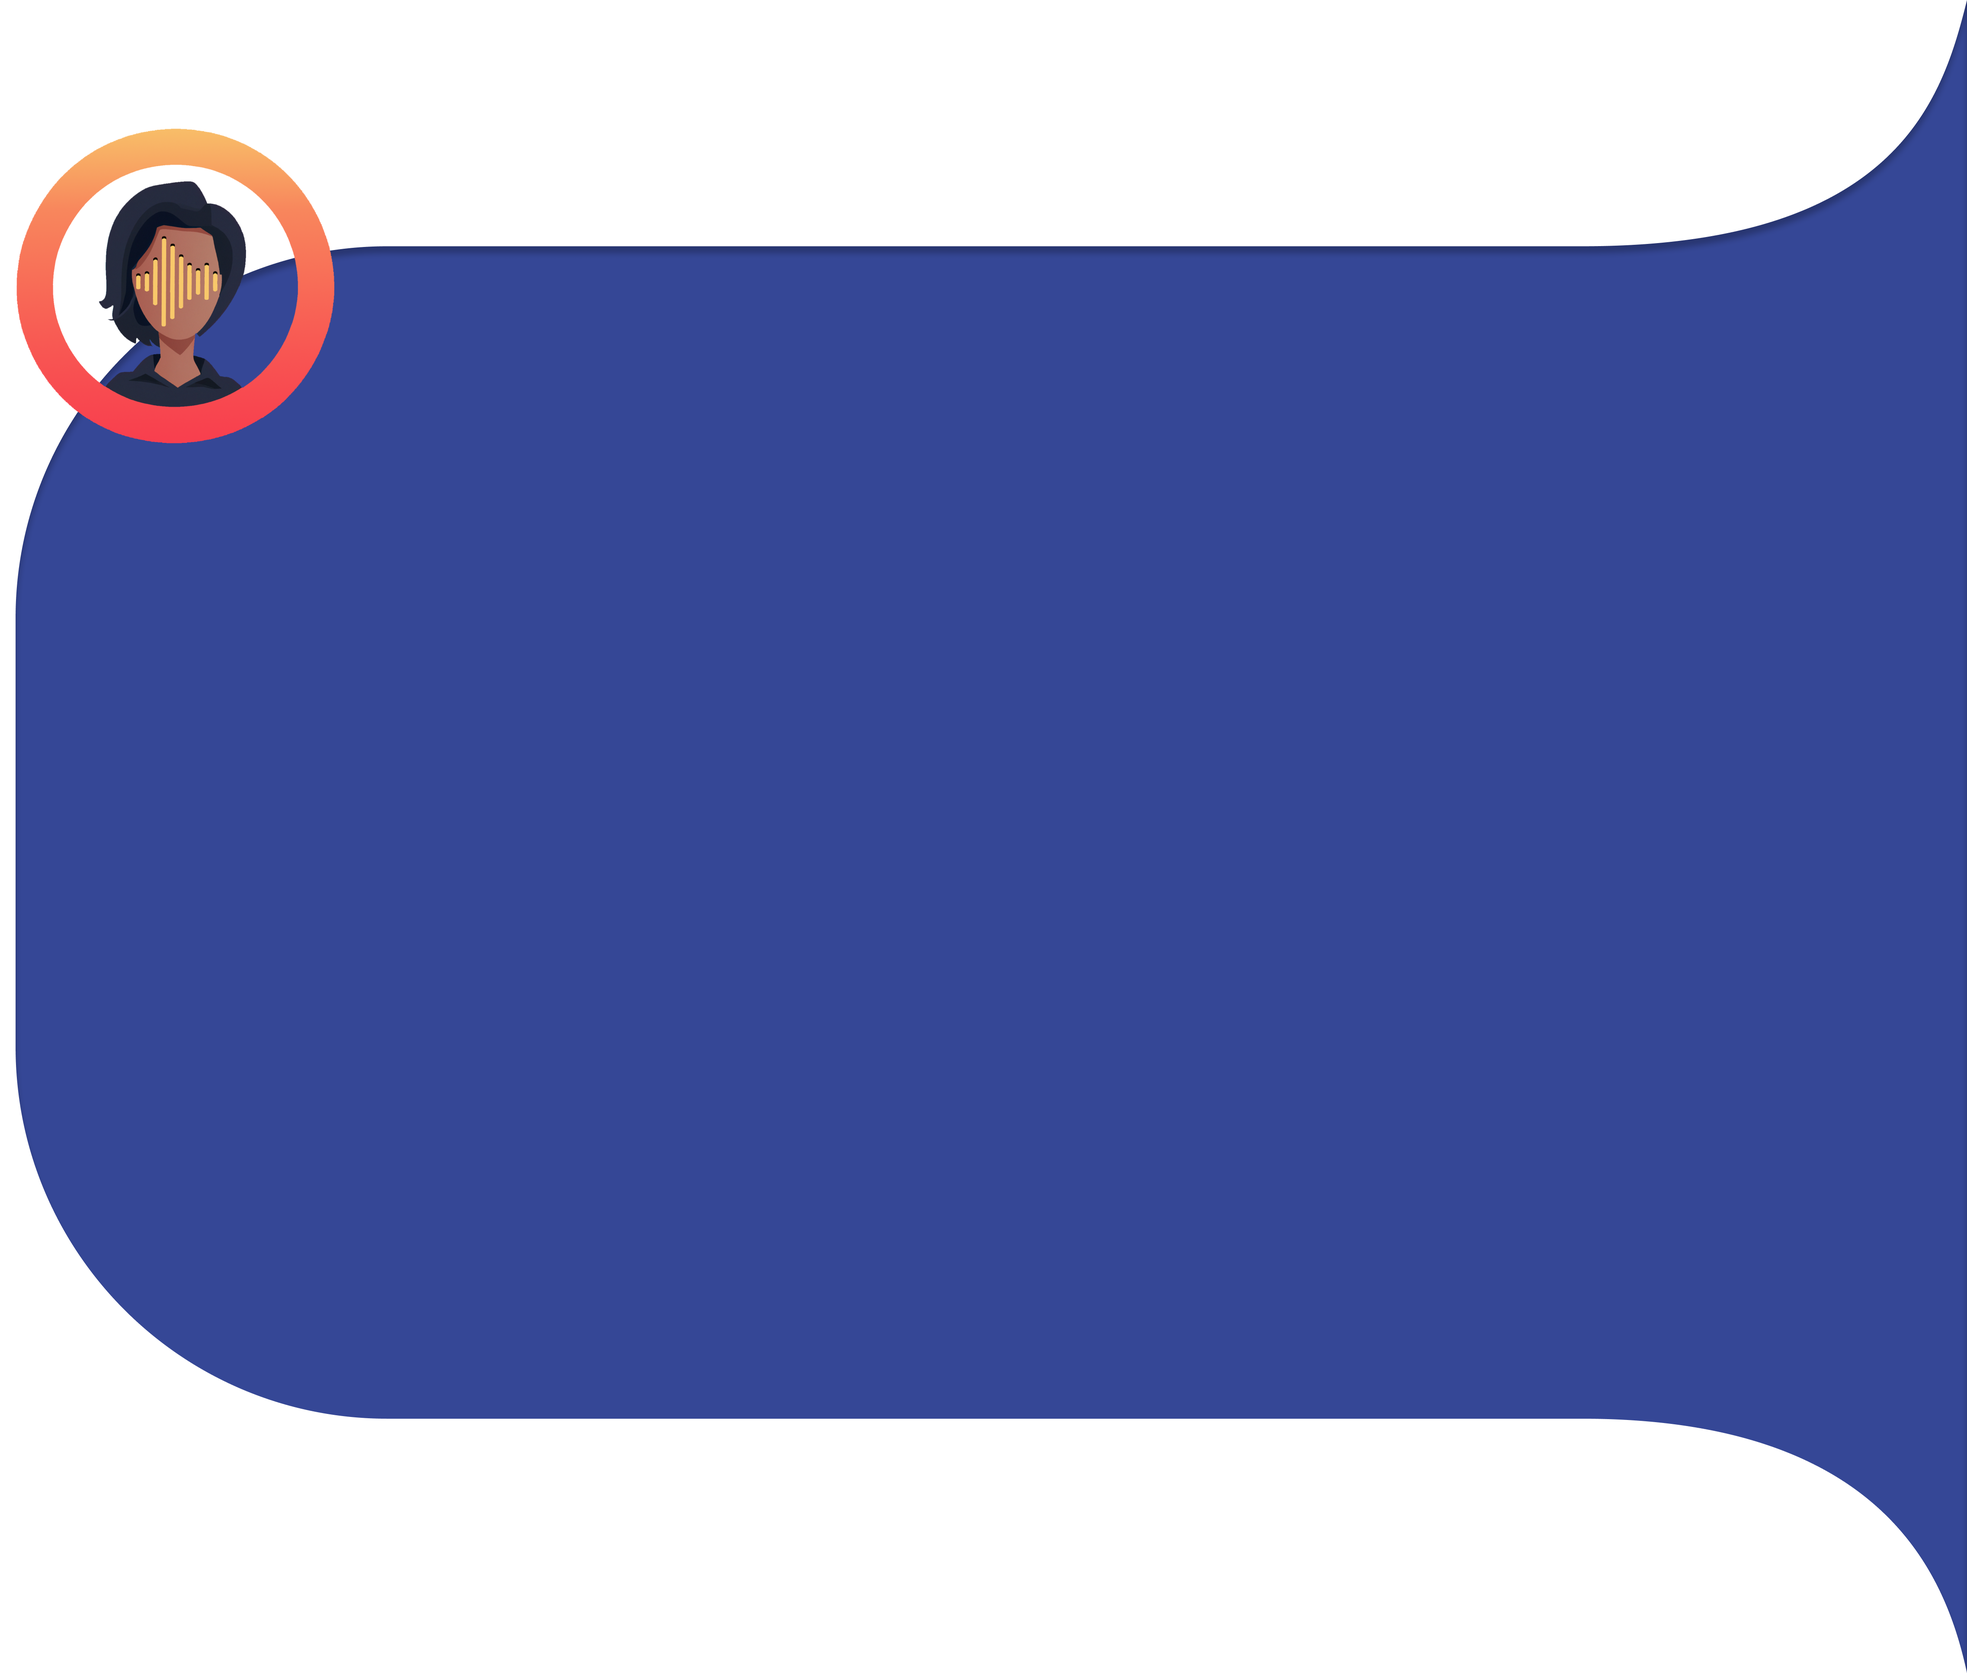
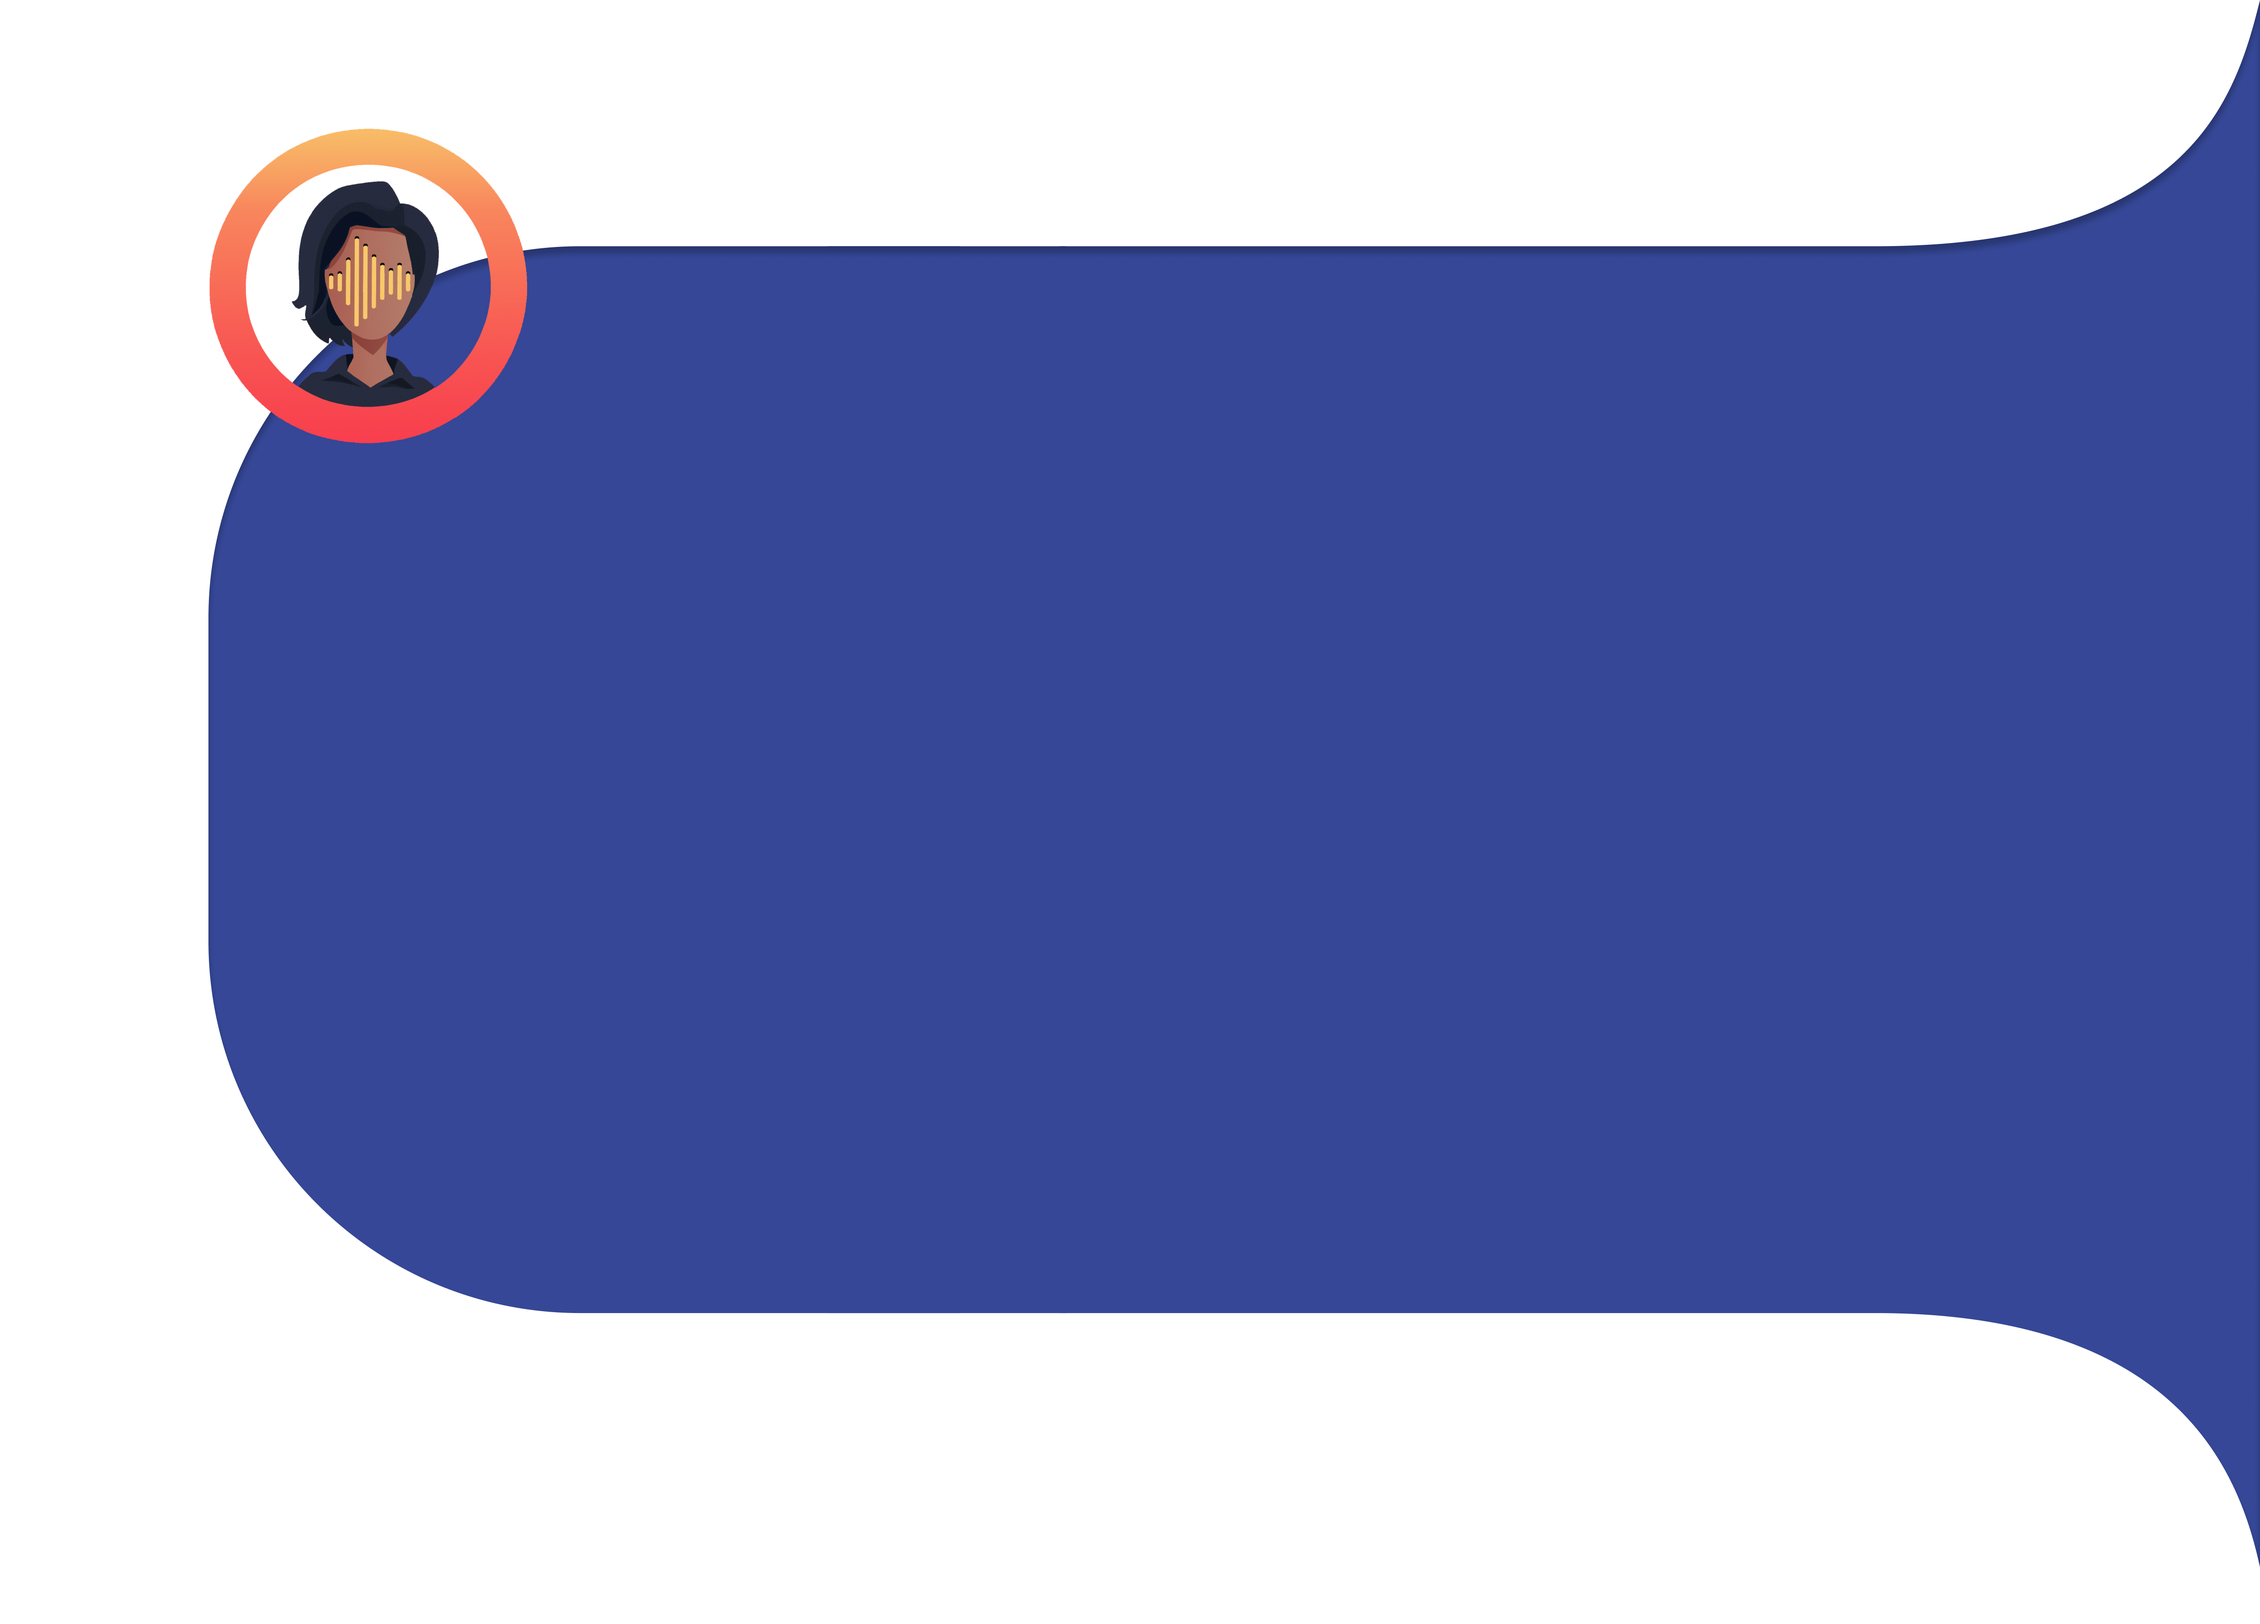
Changed AvatarForge size

Changed region(s): [[0.0, 0.0623, 1.0, 1.0], [0.9679, 0.0623, 0.9991, 0.0935], [0.9367, 0.0935, 0.9679, 0.1246]]

diff --git a/style.css b/style.css
@@ -328,10 +328,10 @@ transform: scale(1.3);
 #avatarforge{
     width: 90%;
     height: fit-content;
-    margin-top: -6%;
+    margin-top: -7.5%;
     background-image: url('/assets/images/Avatarforge_box.png');
     background-repeat: no-repeat;
-    background-size: 90% 100%;
+    background-size: 110% 100%;
     background-position: right;
 }
 
@@ -362,7 +362,7 @@ transform: scale(1.3);
 #avatarforge .project-desc{
     margin-left: auto;
     height: auto;
-    width: 40%;
+    width: 50%;
 }
 
 
@@ -375,13 +375,13 @@ transform: scale(1.3);
     position: absolute;
     width: 40%;
     left: auto;
-    right: 46%;
-    top: 30.5%;
+    right: 55%;
+    top: 28%;
 }
 
 #avatarforge #video-stack *{
     position: relative;
-    width: 72%;
+    width: 75%;
     height: 27%;
     border-radius: 25px !important;
     object-fit: cover !important;
@@ -393,6 +393,7 @@ transform: scale(1.3);
 
 #realdibs{
     width: 100%;
+    margin-top: -3%;
     height: fit-content;
     background-image: url('/assets/images/Realdibs_box.png');
     background-repeat: no-repeat;
